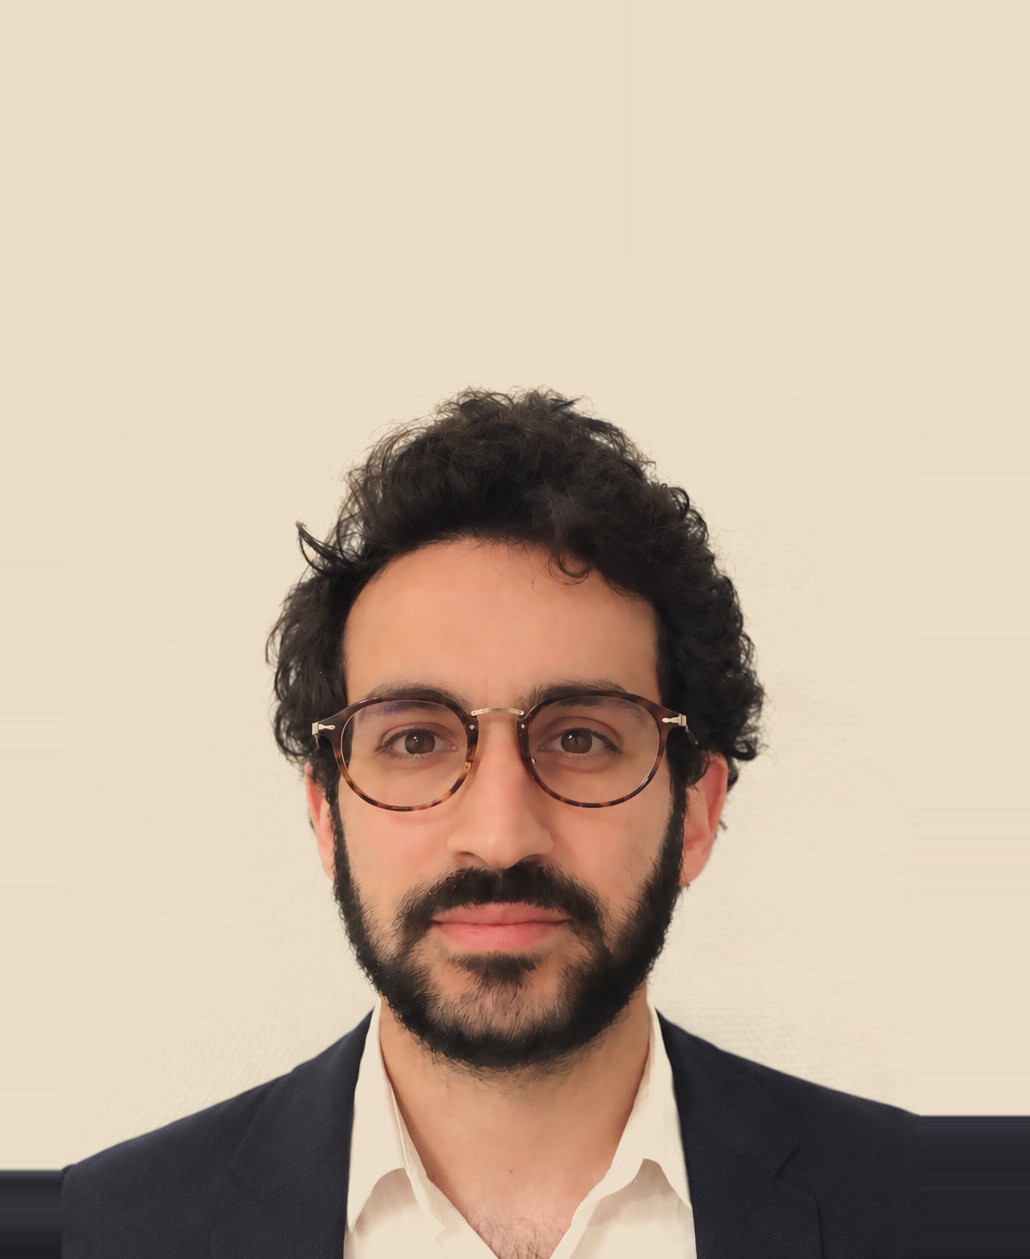
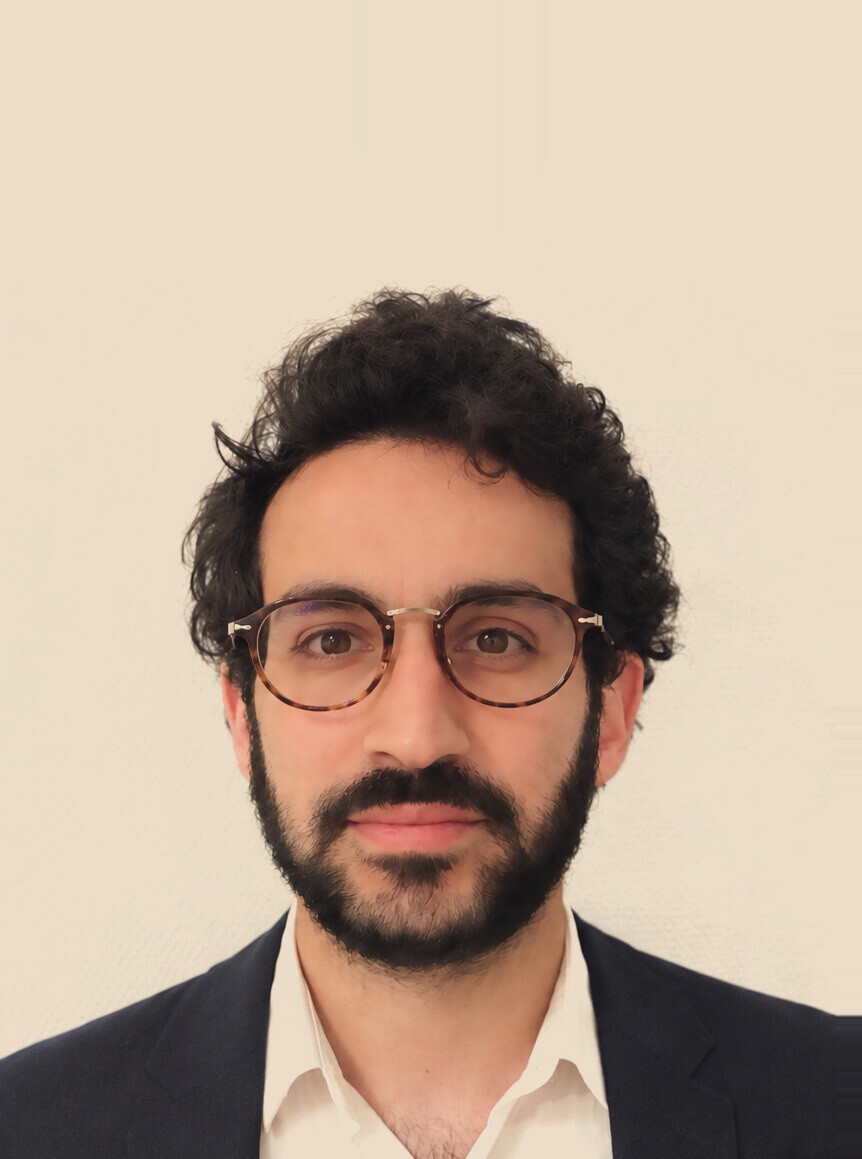
Aperçu : photo centrée au zoom d'origine, bande « Durée variable ✦ Rythme décidé ensemble »
Claude-Session: https://claude.ai/code/session_01AJJxdJZWsS6gzEnFsntUuT

Changed region(s): [[0.0, 0.2485, 1.0, 1.0], [0.4524, 0.9629, 0.4826, 1.0]]

diff --git a/index.html b/index.html
@@ -252,7 +252,7 @@ input::placeholder,textarea::placeholder{color:#8A7B6E}
       </div>
     </div>
     <div data-reveal style="margin-top:clamp(28px,3vw,40px);display:flex;flex-wrap:wrap;gap:10px 32px;justify-content:center;font-size:13px;letter-spacing:0.14em;text-transform:uppercase;color:#4A3D34">
-      <span>Rythme décidé ensemble</span><span style="color:#C9962F">✦</span><span>Durée variable</span>
+      <span>Durée variable</span><span style="color:#C9962F">✦</span><span>Rythme décidé ensemble</span>
     </div>
   </div>
 </section>
